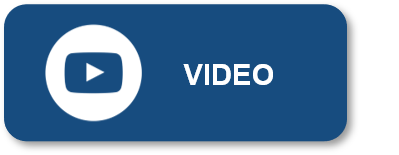
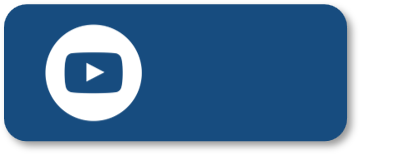
actu

Changed region(s): [[0.4511, 0.4129, 0.6917, 0.5677]]

diff --git a/OVA 3 LEYES DE MOVIMIENTO_Física_y_Laboratorio (1)/base/unidades/unidad1.html b/OVA 3 LEYES DE MOVIMIENTO_Física_y_Laboratorio (1)/base/unidades/unidad1.html
@@ -513,7 +513,7 @@
                                      <b class="texto_activi ml-2" style="">ACTIVIDAD #1</b>
                                    </div>
                                 </div>
-                                <div class="col-md-7 shadow contenedor_indi" style="">
+                                <div class="col-md-7 shadow contenedor_indi" style="    padding-top: 25px;">
                                     <div class="">
                                        <p class="row"><img src="assets/img/img_ova/actividad-white.png" class="logo_copiar" style=""><b class="pl-3" style="color: white;">Video</b></p> 
                                     </div>
@@ -523,20 +523,25 @@
                                 </div>
                           </div>
                           <div class="col-md-12">
-                            <div class="col-md-9 mt-5">
+                            <div class="col-md-10 mt-5">
                                 <div class="" style="background: #FFCC66;padding: 30px;border-radius: 50px;">
                                     <div>
-                                        <p class="justificado p_black">Con el fin de introducir la Primera ley de Newton, visualice el siguiente video titulado “<b>Introducción leyes de newton</b>”.</p>
+                                        <p class="justificado p_black" style="width: 70%;">Con el fin de introducir la Primera ley de Newton, visualice el siguiente video titulado “<b>Introducción leyes de newton</b>”.</p>
                                     </div>
                                     <div class="row">
                                         <div class="col-md-8 mt-3">
-                                            <div>
-                                                <a href="https://www.youtube.com/watch?v=86ZNmoAdlNg" target="_blank"><img src="assets/img/img_ova/btn-youtube.png" style="max-width: 40%;"></a>
+                                            <div class="mt-3">
+                                                <a href="https://www.youtube.com/watch?v=86ZNmoAdlNg" target="_blank">
+                                                    <!-- <img src="assets/img/img_ova/btn-youtube.png" style="max-width: 40%;"> -->
+                                                    <div class="btn-youtub">
+                                                        VIDEO
+                                                    </div>
+                                                </a>
                                                 
                                             </div>
                                         </div>
                                         <div class="col-md-4" style="height: 125px;">
-                                            <img src="assets/img/img_ova/videosYoutube.png" style="max-width: 200px;">
+                                            <img src="assets/img/img_ova/videosYoutube.png" style="max-width: 240px;margin-top: -26px;">
                                         </div>
                                     </div>
                                 </div>
@@ -554,13 +559,13 @@
                                   <h3 class="color-text">La fuerza y las leyes de Newton/ Primera ley de Newton</h3>
                               </div>
                           </div>
-                          <div class="col-md-12">
+                          <div class="col-md-12 p-0">
                             <div class="text-center baneBlue_c">
-                              <p class="">
+                              <p class="p_black">
                               “Un cuerpo sobre el que no actúa una fuerza neta se mueve con velocidad constante (que puede ser cero) y aceleración cero”. Newton.</p>
                             </div>
                             <div>
-                                <p class="justificado p_black">Haga clic en cada número para leer su contenido:</p>
+                                <p class="justificado p_black mt-3">Haga clic en cada número para leer su contenido:</p>
                             </div>
                             
                           </div>
@@ -577,29 +582,29 @@
                                 </div>
                             </div>
                             <div class="col-md-7">
-                                <div class="cafe_leche" style="min-height: 311px;">
-                                    <div class="visible textP6 textP6-1">
-                                        <p class="justificado p_white size_13">La idea de Aristóteles de que un objeto en movimiento debe ser impulsado por una fuerza constante fue desechada completamente por Galileo, quien afirmó que, en ausencia de una fuerza, un objeto en movimiento continuará moviéndose. La tendencia de las cosas a resistir los cambios en el movimiento fue lo que Galileo llamó inercia. Newton perfeccionó la idea de Galileo y la convirtió en su primera ley, llamada adecuadamente ley de la <b class="p_black" style="background: #965B0C;padding: 3px;border-radius: 10px;">inercia.</b></p>
+                                <div class="cafe_leche" style="min-height: 257px;">
+                                    <div class="textP6 textP6-1 visible">
+                                        <p class="justificado p_white size_13 mt-3">La idea de Aristóteles de que un objeto en movimiento debe ser impulsado por una fuerza constante fue desechada completamente por Galileo, quien afirmó que, en ausencia de una fuerza, un objeto en movimiento continuará moviéndose. La tendencia de las cosas a resistir los cambios en el movimiento fue lo que Galileo llamó inercia. Newton perfeccionó la idea de Galileo y la convirtió en su primera ley, llamada adecuadamente ley de la <b class="p_black" style="background: #965B0C;padding: 3px;border-radius: 10px;">inercia.</b></p>
                                     </div>
-                                    <div class="invisible textP6 textP6-2">
-                                        <p class="justificado p_white size_13">Un objeto continúa haciendo lo que esté haciendo a menos que sobre él se ejerza una fuerza. Si está en reposo, continúa en un estado de reposo. Se podría demostrar esto retirando de un tirón horizontal un mantel y dejando los platos sobre él en su estado inicial de reposo. Se subraya que esta propiedad de los objetos de resistir los cambios en el movimiento se llama inercia.</p>
+                                    <div class="textP6 textP6-2 invisible">
+                                        <p class="justificado p_white size_13 mt-4">Un objeto continúa haciendo lo que esté haciendo a menos que sobre él se ejerza una fuerza. Si está en reposo, continúa en un estado de reposo. Se podría demostrar esto retirando de un tirón horizontal un mantel y dejando los platos sobre él en su estado inicial de reposo. Se subraya que esta propiedad de los objetos de resistir los cambios en el movimiento se llama inercia.</p>
                                     </div>
-                                    <div class="invisible textP6 textP6-3">
-                                        <p class="justificado p_white size_13">Si un objeto está en movimiento, continúa moviéndose sin dar la vuelta o cambiar su rapidez. Esto es evidente en las sondas espaciales que se mueven de manera continua en el espacio exterior. Los cambios en el movimiento tienen que imponerse contra la tendencia de un objeto de conservar su estado de movimiento. En ausencia de fuerzas netas, un objeto en movimiento tiende a moverse a lo largo de una línea recta de manera indefinida.</p>
+                                    <div class="textP6 textP6-3 invisible">
+                                        <p class="justificado p_white size_13 mt-3">Si un objeto está en movimiento, continúa moviéndose sin dar la vuelta o cambiar su rapidez. Esto es evidente en las sondas espaciales que se mueven de manera continua en el espacio exterior. Los cambios en el movimiento tienen que imponerse contra la tendencia de un objeto de conservar su estado de movimiento. En ausencia de fuerzas netas, un objeto en movimiento tiende a moverse a lo largo de una línea recta de manera indefinida.</p>
                                     </div>
-                                    <div class="invisible textP6 textP6-4">
-                                        <p class="justificado p_white size_13">Por ejemplo, si dos personas tiran en la misma dirección con fuerzas iguales sobre un objeto, las fuerzas se combinan para producir una fuerza neta del doble de su fuerza individual, pero si cada persona tira con fuerzas iguales en direcciones opuestas la fuerza neta es cero. Las fuerzas son en magnitud son iguales, pero con dirección opuesta, por tanto, se cancelan entre sí. Se puede considerar que una de las fuerzas es la negativa de la otra, y algebraicamente suman cero, con una fuerza neta resultante de cero.</p>
+                                    <div class="textP6 textP6-4 invisible">
+                                        <p class="justificado p_white size_13 mt-2">Por ejemplo, si dos personas tiran en la misma dirección con fuerzas iguales sobre un objeto, las fuerzas se combinan para producir una fuerza neta del doble de su fuerza individual, pero si cada persona tira con fuerzas iguales en direcciones opuestas la fuerza neta es cero. Las fuerzas son en magnitud son iguales, pero con dirección opuesta, por tanto, se cancelan entre sí. Se puede considerar que una de las fuerzas es la negativa de la otra, y algebraicamente suman cero, con una fuerza neta resultante de cero.</p>
                                     </div>
-                                    <div class="invisible textP6 textP6-5">
+                                    <div class="textP6 textP6-5 invisible">
                                         <p class="justificado p_white size_13">Cabe señalar que lo que importa en la primera ley de Newton es la fuerza neta. Por ejemplo, dos fuerzas actúan sobre un libro en reposo en una mesa horizontal: una fuerza de apoyo hacia arriba, o fuerza normal, ejercida por la mesa y la fuerza hacia abajo debida a la atracción gravitacional terrestre. El empuje hacia arriba de la superficie es tan grande como la atracción gravitacional hacia abajo, así que la fuerza neta sobre el libro (la suma vectorial de las dos fuerzas) es cero. De acuerdo con la primera ley de Newton, si el libro está en reposo en la mesa, sigue en reposo.</p>
                                     </div>
-                                    <div class="invisible textP6 textP6-6">
-                                        <p class="justificado p_white size_13">Los marcos de referencia inerciales, es un aspecto importante para el estudio de las leyes de movimiento. Se supone que una persona está de pie sobre unos patines dentro de un vagón de tren que viaja a velocidad constante por una carrilera recta. Si el tren acelera, la persona comenzará a moverse hacia atrás en relación con el vagón, conforme este aumenta su rapidez. En cambio, si el tren frenara, la persona comenzará a moverse hacia adelante por el pasillo. En los casos que se plantearon, no se cumple la primera ley de Newton: no actúa una fuerza neta sobre la persona, pero su velocidad cambia ¿Qué sucede aquí?</p>
+                                    <div class="textP6 textP6-6 invisible">
+                                        <p class="justificado p_white size_13" style="height: 195px;overflow: auto;">Los marcos de referencia inerciales, es un aspecto importante para el estudio de las leyes de movimiento. Se supone que una persona está de pie sobre unos patines dentro de un vagón de tren que viaja a velocidad constante por una carrilera recta. Si el tren acelera, la persona comenzará a moverse hacia atrás en relación con el vagón, conforme este aumenta su rapidez. En cambio, si el tren frenara, la persona comenzará a moverse hacia adelante por el pasillo. En los casos que se plantearon, no se cumple la primera ley de Newton: no actúa una fuerza neta sobre la persona, pero su velocidad cambia ¿Qué sucede aquí?</p>
                                     </div>
-                                    <div class="invisible textP6 textP6-7">
-                                        <p class="justificado p_white size_13">El tren acelera con respecto al suelo y este no es un marco de referencia adecuado para la primera ley de Newton. Esta es válida en algunos marcos de referencia, pero no en otros. Un marco de referencia en el que es válida la primera ley de Newton es un marco de referencia inercial. La Tierra es aproximadamente un marco de referencia inercial, pero el tren no. (La Tierra tampoco es un marco plenamente inercial debido a la aceleración asociada a su rotación y su movimiento alrededor del Sol, aunque estos efectos son bastante pequeños en problemas localizado en un área pequeña). Debido a que la primera ley de Newton se utiliza para definir lo que es un marco de referencia inercial, se reitera lo de llamarla ley de la inercia. (Young, 2007).</p>
-                                        <div class="text-center" style="height: 0px;">
-                                            <button class="btn blueBtn" data-toggle="modal" data-target="#ejemplo1">Ver ejemplo</button>
+                                    <div class="textP6 textP6-7 invisible">
+                                        <p class="justificado p_white size_13" style="height: 193px;overflow: auto;">El tren acelera con respecto al suelo y este no es un marco de referencia adecuado para la primera ley de Newton. Esta es válida en algunos marcos de referencia, pero no en otros. Un marco de referencia en el que es válida la primera ley de Newton es un marco de referencia inercial. La Tierra es aproximadamente un marco de referencia inercial, pero el tren no. (La Tierra tampoco es un marco plenamente inercial debido a la aceleración asociada a su rotación y su movimiento alrededor del Sol, aunque estos efectos son bastante pequeños en problemas localizado en un área pequeña). Debido a que la primera ley de Newton se utiliza para definir lo que es un marco de referencia inercial, se reitera lo de llamarla ley de la inercia. (Young, 2007).</p>
+                                        <div class="text-center" style="height: 0px;position: relative;top: 15px;">
+                                            <button class="btn blueBtn" data-toggle="modal" data-target="#ejemplo1" style="background: #174C7F;">Ver ejemplo</button>
                                         </div>
                                     </div>
                                     
@@ -616,7 +621,7 @@
                                   <h3 class="color-text">La fuerza y las leyes de Newton/ La masa, el peso y la gravedad:</h3>
                               </div>
                           </div>
-                          <div class="col-md-12 mt-3">
+                          <div class="col-md-12 mt-3 p-0">
                               <p class="justificado p_black size_14">La cantidad de inercia que posee un objeto depende de la cantidad de materia que contenga: mientras más materia, más inercia. Para hablar de la cantidad de materia que tiene algo, se utiliza el término masa. Mientras mayor sea la masa de un objeto, mayor es su inercia.</p>
                               <b class="size_13 p_black">Para conocer más sobre el concepto de masa, peso y gravedad de clic en cada número:</b>
                           </div>
@@ -692,15 +697,15 @@
                                   </div>
                               </div>
                           </div>
-                          <div class="col-md-12 invisible cont-pastillas cont-pas-2" style="z-index: 1;">
+                          <div class="col-md-12 cont-pastillas cont-pas-2 invisible" style="z-index: 1;">
                               <div class="row">
                                   <div class="col-md-4">
-                                      <div class="text-center blancoBane">
+                                      <div class="text-center blancoBane" style="width: 230px;height: 213px;">
                                           <img src="assets/img/img_ova/imagen7.png" class="img-70">
                                       </div>
                                   </div>
                                   <div class="col-md-8">
-                                      <div class="bannerSiete">
+                                      <div class="bannerSiete d-flex align-items-center" style="height: 213px;padding-top: 23px;">
                                         <p class="justificado p_black size_14">El peso de un objeto de masa m debido a la gravedad es igual a mg, donde g es la constante de proporcionalidad y tiene el valor 9,81 N/kg. De manera equivalente, g es la aceleración debida a la gravedad, 9,81 m/s2 (la unidad N/kg es equivalente a m/s2). La proporción directa entre la masa y el peso dice que, si la masa de un objeto se duplica, su peso también se duplica; si la masa se reduce a la mitad, el peso se reduce a la mitad. Debido a esto, masa y peso con frecuencia se usan en forma indistinta.</p>
                                       </div>
                                   </div>
@@ -742,7 +747,7 @@
                               </div>
                           </div>
                           <div class="col-md-12 invisible cont-pastillas cont-pas-4" style="z-index: 1;">
-                              <div class="row bannerSiete" style="padding: 10px;">
+                              <div class="row bannerSiete" style="padding: 0px;height: 213px;">
                                   <div class="col-md-2">
                                         <img src="assets/img/img_ova/ladrillo.png" style="max-width: 170%;position: relative;left: -30px;margin-top: 35px;">
                                   </div>
@@ -788,11 +793,11 @@
                               </div>
                           </div>
                           <div class="col-md-12 invisible cont-pastillas cont-pas-5" style="z-index: 1;">
-                              <div class="row bannerSiete" style="padding: 10px;width: 100%;">
+                              <div class="row bannerSiete" style="padding: 10px;width: 100%;margin-left: 0px;height: 213px;">
                                   <div class="col-md-3">
-                                        <img src="assets/img/img_ova/Newton.png" class="img-100">
+                                        <img src="assets/img/img_ova/Newton.png" class="img-100" style="width: 251px;margin-left: -62px;margin-top: -26px;">
                                   </div>
-                                  <div class="col-md-9">
+                                  <div class="col-md-9 d-flex align-items-center" style="height: 100%;">
                                     <p class="justificado p_black size_14">También es fácil confundir masa y volumen. Cuando se piensa en un objeto masivo, con frecuencia se piensa en un objeto grande. Sin embargo, el tamaño de un objeto (volumen) no necesariamente es un buen indicador de su masa ¿Cuál es más fácil de poner en movimiento: una batería de automóvil o una caja de cartón vacía del mismo tamaño? Así pues, se observa que la masa no es ni peso ni volumen.</p>
                                   </div>
                               </div>
@@ -811,8 +816,8 @@
                                   
                               </div>
                           </div>
-                          <div class="col-md-12">
-                            <div class="indica_osc">
+                          <div class="col-md-12 mt-2">
+                            <div class="indica_osc text-center" style="background: #174c7f;">
                                 <b>Ejercicio de ejemplo</b>
                             </div>
                           </div>
@@ -824,32 +829,32 @@
                                 <div class="row mt-5">
                                     <div class="col-md-6">
                                         <div class="text-center">
-                                            <img src="assets/img/img_ova/imagen8.png" class="img-70">
+                                            <img src="assets/img/img_ova/imagen8.png" class="img-100">
                                         </div>
                                     </div>
                                     <div class="col-md-6">
                                             <div class="d-flex justify-content-center">
-                                                <div class="solucion" style="">
+                                                <div class="solucion" style="margin-left: -20%;background: #174C7F;">
                                                     Solución
                                                 </div>
                                             </div>
                                             <div class="row">
-                                                <div class="head" style="">1</div>
-                                                <div class="borde_blue_osc" style="">
+                                                <div class="head" style="background: #174C7F;font-size: 22px;padding-top: 2px;z-index: 1;">1</div>
+                                                <div class="borde_blue_osc" style="width: 75%;border: solid #174c7f 1px;">
                                                     <p class="p_black">Primero se toma el sistema</p>
                                                 </div>
                                             </div>
                                             <div class="text-center mt-3">
-                                                <img src="assets/img/img_ova/formulaP9.png" style="width: 140%;position: relative;left: -97px;">
+                                                <img src="assets/img/img_ova/formulaP9.png" style="width: 100%;position: relative;">
                                             </div>
                                             <div class="row">
-                                                <div class="head" style="">2</div>
-                                                <div class="borde_blue_osc" style="">
+                                                <div class="head" style="background: #174C7F;font-size: 22px;padding-top: 2px;z-index: 1;">2</div>
+                                                <div class="borde_blue_osc" style="width: 75%;border: solid #174c7f 1px;">
                                                     <p class="p_black">Ahora solo se toma para el bloque B:</p>
                                                 </div>
                                             </div>
                                             <div class="text-center mt-3">
-                                                <p class="justificado p_black" style="    font-size: 20px;">𝐹<sub>𝐴𝐵</sub>=𝑚<sub>𝐵</sub>.𝑎  (la a es la misma)</p><br>
+                                                <p class="justificado p_black" style="font-size: 15px;">𝐹<sub>𝐴𝐵</sub>=𝑚<sub>𝐵</sub>.𝑎  (la a es la misma)</p><br>
                                                 <img src="assets/img/img_ova/formulaP10.png" class="img-90">
                                             </div>
                                     </div>
@@ -3062,7 +3067,7 @@
     </div>
 </div>
 <div class="modal fade" id="ejemplo1" tabindex="-1" role="dialog" aria-labelledby="exampleModalLabel" aria-hidden="true">
-  <div class="modal-dialog-centered modal-dialog modal-lg d-block" role="document">
+  <div class="modal-dialog modal-lg" role="document" style="top: 20%;">
     <div class="modal-content">
       <div class="">
         <div class="card-container manual-flip">
@@ -3087,7 +3092,7 @@
                       </div>
                     </div>
                   </div>
-                  <div class="content row">
+                  <div class="content row" style="padding: 20px 20px 20px;">
                     <div class="col-md-5">
                         <p class="justificado p_black size_14">En la película clásica de ciencia ficción de 1950 Rocketship X-M, una nave viaja en el vacío del espacio exterior, lejos de cualquier planeta, cuando sus motores se descomponen. El resultado es que la nave baja su velocidad y se detiene. ¿Qué dice la primera ley de Newton acerca de esto? (Young, Zemansky, Sears, 2009).</p>
                     </div>

diff --git a/OVA 3 LEYES DE MOVIMIENTO_Física_y_Laboratorio (1)/css/estilos1.css b/OVA 3 LEYES DE MOVIMIENTO_Física_y_Laboratorio (1)/css/estilos1.css
@@ -2208,3 +2208,13 @@ a.control_next {
     left: -25px;
     top: 25px;
 }
+
+.btn-youtub{
+  background-image: url('../assets/img/img_ova/btn-youtube.png');
+  background-size: 100% 100%;
+  background-repeat: no-repeat;
+  color: white;
+    height: 60px;
+    width: 150px;
+    padding: 16px 1px 1px 65px;
+}
